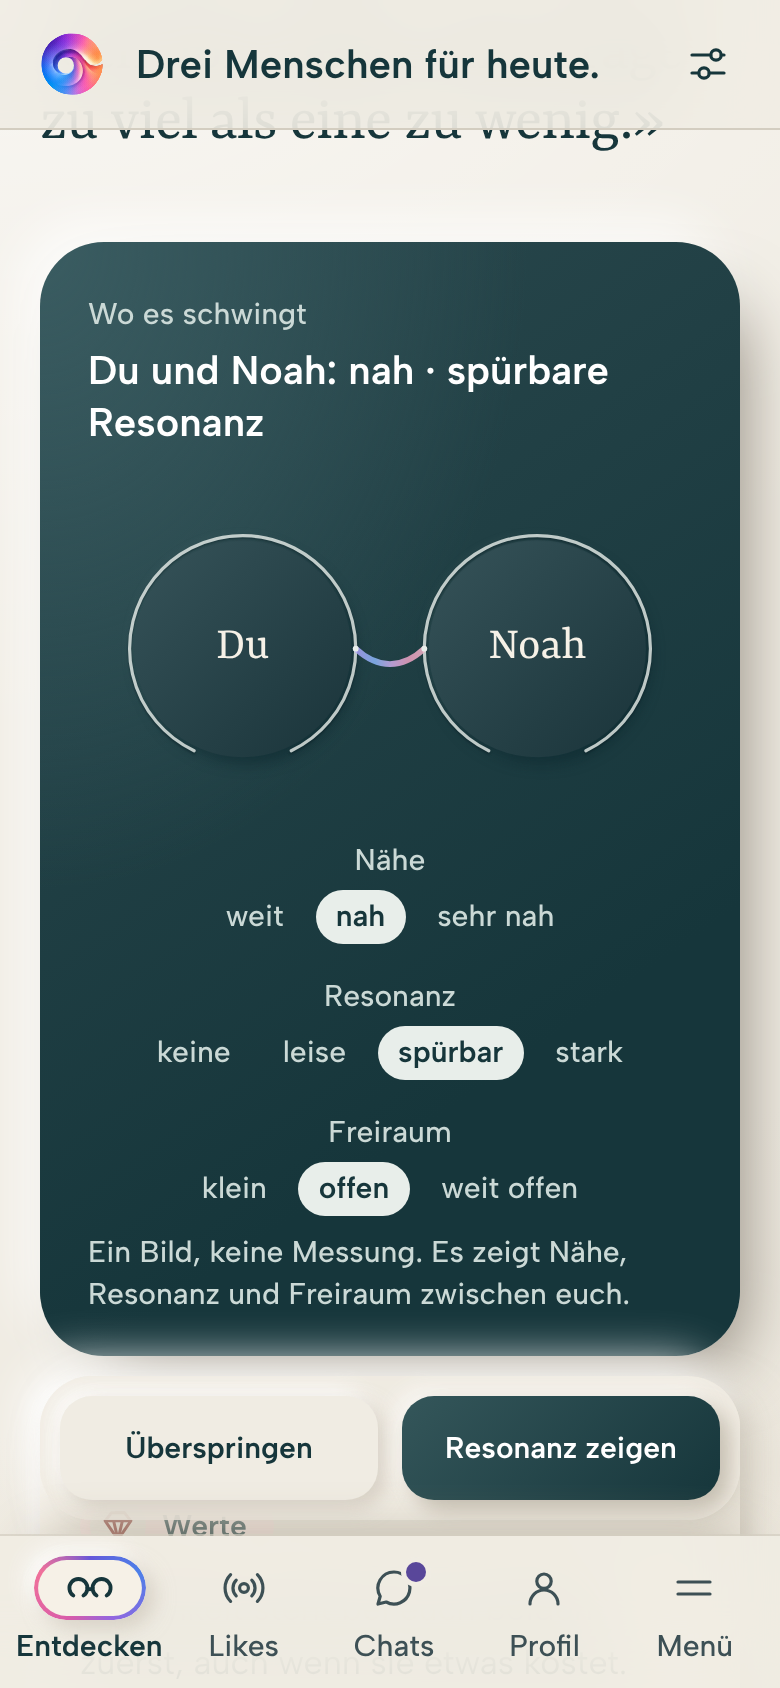
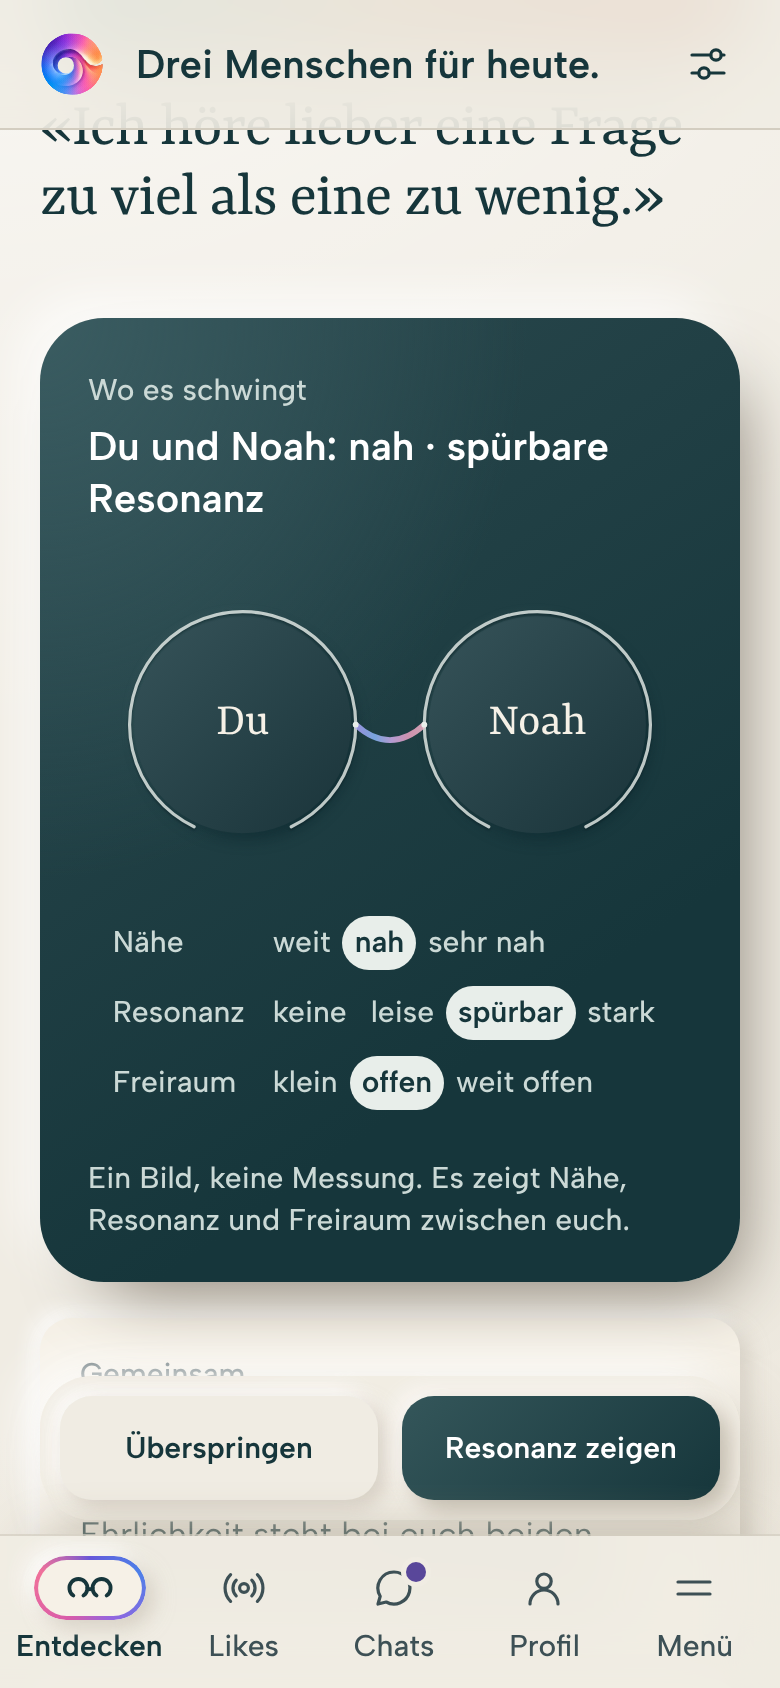
Skala auf dem Telefon: eine Zeile je Wert
Name links, Stufen rechts in einer Flucht, 97 px statt rund 170 px hoch.
Unter 280 px Rahmenbreite steht der Name weiter über den Stufen.

Claude-Session: https://claude.ai/code/session_01GcUU3Qg4dj9oPnZ4iDHoTB

diff --git a/components/beziehungsraum/beziehungsraum.css b/components/beziehungsraum/beziehungsraum.css
@@ -22,6 +22,17 @@
 .relationship-scale span[data-on]{background:var(--ink);color:var(--canvas);font-weight:600}
 [data-dark] .relationship-scale :is(dt,span){color:#CBD9D6}
 [data-dark] .relationship-scale span[data-on]{background:#E8EEEA;color:#16363B}
+/* Schmal: eine Zeile je Wert, Name links, Stufen rechts in einer Flucht. Das braucht 278 px.
+   Unter 280 px Rahmenbreite steht der Name über den Stufen. */
+@container(max-width:699.98px){
+  .relationship-scale{gap:8px;padding:0}
+  .relationship-scale dd{gap:0}
+  .relationship-scale span{padding:3px 6px}
+}
+@container(min-width:280px) and (max-width:699.98px){
+  .relationship-scale{grid-template-columns:max-content max-content;justify-content:center;align-items:center}
+  .relationship-scale div{display:contents}
+}
 @container(min-width:700px){.relationship-scale{grid-template-columns:repeat(3,auto);justify-content:center;gap:48px}}
 @media(max-width:560px){
   .relationship-frame{margin-left:-8px;margin-right:-8px;width:calc(100% + 16px)}

diff --git a/DESIGN-NOTES.md b/DESIGN-NOTES.md
@@ -252,7 +252,7 @@ Im Zentrum steht das Resonanzrad mit neun Elementen: den Grundlagen, aus denen R
 - Zentren x = 142 + 0,8 × Nähe und x = 720 − erstes Zentrum, y = 200. Bei «weit» stehen die Kreise aussen (Lücke 180), bei «sehr nah» bleibt in Ruhe eine Lücke von 20, im Atem berühren sie sich fast. Sie überlappen nie. Vorher 172 + 0,4 × Nähe (Lücke 120 bis 40): Der Unterschied war zu klein, um ihn zu lesen.
 - Öffnung symmetrisch um den unteren Kreispunkt, halber Winkel 6° + 0,54° × Freiraum (vorher 8° + 0,4°). Die Verbindung trifft beide Konturen exakt.
 - Resonanz in vier Stufen statt stufenlos: keine Linie, fein (1,6 px, 60 %), kräftig (2,8 px), kräftig mit Glühen (4,4 px).
-- Skala unter dem Bild (`.relationship-scale`, vom Skript erzeugt): alle Stufen von Nähe, Resonanz und Freiraum stehen da, die geltende ist hervorgehoben. So ist ohne Regler lesbar, wo zwei Menschen stehen und was Minimum und Maximum wären. Abschalten mit `data-skala="aus"` (Match-Moment in der App, Bewegungsbeispiel im Atlas). Der Vorlesetext des Bilds nennt die drei Stufen.
+- Skala unter dem Bild (`.relationship-scale`, vom Skript erzeugt): alle Stufen von Nähe, Resonanz und Freiraum stehen da, die geltende ist hervorgehoben. So ist ohne Regler lesbar, wo zwei Menschen stehen und was Minimum und Maximum wären. Ab 700 px Rahmenbreite drei Spalten, darunter eine Zeile je Wert (Name links, Stufen rechts, zusammen 97 px hoch). Unter 280 px Rahmenbreite passt das nicht, dort steht der Name über den Stufen. Abschalten mit `data-skala="aus"` (Match-Moment in der App, Bewegungsbeispiel im Atlas). Der Vorlesetext des Bilds nennt die drei Stufen.
 - Die drei Punkte oben sind ein **Entwurf vom 15.11.2026, noch ohne Freigabe** von Chris.
 - Namen sind HTML-Text und atmen nicht mit. Werte sind Gestaltungsparameter, keine Messung.
 - Seit 4.11.2 wird der Seitentitel der Bausteinseiten (`.page-intro h1`) unter 400 px Fensterbreite mit dem Fenster kleiner (13vw, bei 320 px sind das 41,6 px). Vorher war «Beziehungsraum» in 52 px 325 px breit, Platz waren 272 px: Bei reduzierter Bewegung lief die Seite 29 px über, mit Bewegung schnitt die Maske des Titelauftritts das Wort ab. Die Geometrie des Beziehungsraums ist unverändert.
